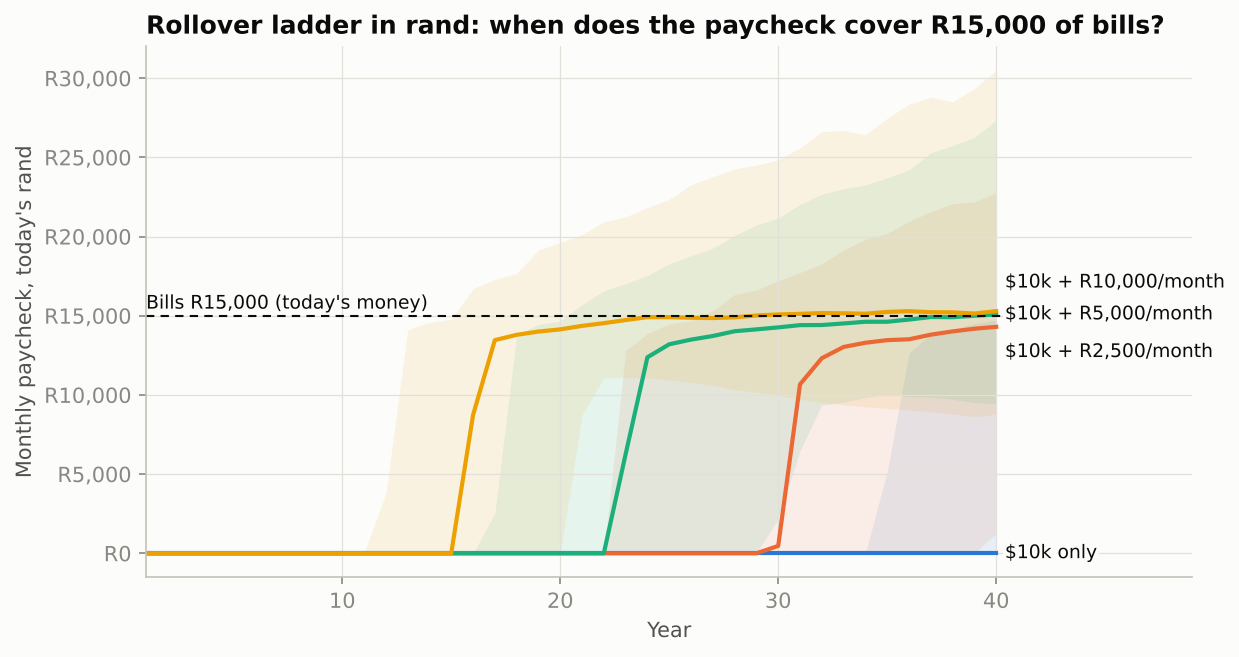
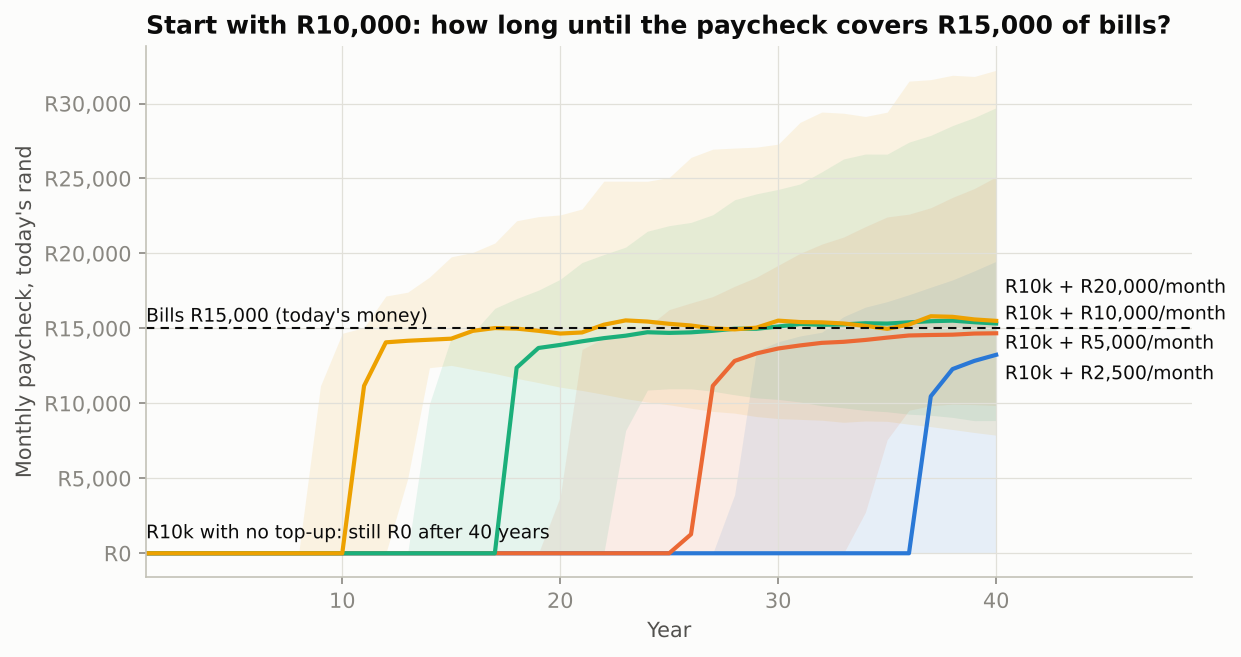
Make R10,000 the headline case of the rand income plan
- rand_plan.py: R10,000 start first, R20,000 top-up row, chart and the
  leverage comparison now start from R10,000
- README: R10,000 table with top-ups up to R30,000 and the chance of
  covering R15,000/month of bills within 10 years

Claude-Session: https://claude.ai/code/session_01FkSh75nLZHxFWKxDJLuH7a

diff --git a/Forex-Trading-Bot/factory/rand_plan.py b/Forex-Trading-Bot/factory/rand_plan.py
@@ -3,7 +3,8 @@
 The strategy holds dollar assets (S&P 500 and gold), so the simulation runs in
 USD and converts at the latest USD/ZAR rate in the data. Bills grow 3% a year in
 dollar terms, roughly SA inflation (~5-6%) less the rand's usual yearly slide
-against the dollar. All rand figures are reported in today's money.
+against the dollar. All rand figures are reported in today's money. The headline
+case starts with R10,000; a $10,000 start is kept for comparison.
 
   python -m factory.rand_plan
 """
@@ -22,8 +23,10 @@ INFLATION_USD = 0.03         # yearly growth of the bills measured in dollars
 RATE = 0.005                 # payout per month: ~6% a year = ~9% return minus 3% inflation
 YEARS = 40
 SA_FINANCING = 0.10          # borrowing in rand costs about prime (~10%); shown once for comparison
-STARTS_ZAR = {"$10,000": None, "R10,000": 10_000}
-TOPUPS_ZAR = [0, 2_500, 5_000, 10_000]
+STARTS_ZAR = {"R10,000": 10_000, "$10,000": None}
+TOPUPS_ZAR = [0, 2_500, 5_000, 10_000, 20_000]
+CHART_TOPUPS = [2_500, 5_000, 10_000, 20_000]
+START_ZAR = 10_000
 
 
 def usdzar() -> tuple[float, str]:
@@ -48,8 +51,8 @@ def plans():
                         | {"start_label": label, "topup_zar": top, "leverage": 1})
     lev = 1.5 * base - 0.5 * SA_FINANCING / 12
     rows.append(monte_carlo(lev, "ladder", rate=RATE, deposit=5_000 / fx, years=YEARS, n_paths=3000, bill=bill,
-                            bill_growth=INFLATION_USD, start=10_000.0)
-                | {"start_label": "$10,000", "topup_zar": 5_000, "leverage": 1.5})
+                            bill_growth=INFLATION_USD, start=START_ZAR / fx)
+                | {"start_label": "R10,000", "topup_zar": 5_000, "leverage": 1.5})
     t = pd.DataFrame(rows)
     t["usdzar"], t["usdzar_date"] = fx, fx_date
     # Real (today's-rand) income: deflate by the bill growth, convert at today's rate.
@@ -67,15 +70,15 @@ def chart(fx: float):
     deflate = (1 + INFLATION_USD) ** (years - 0.5)
     sims = block_bootstrap(base, YEARS * 12, 2000)
     fig, ax = plt.subplots(figsize=(9, 4.6))
-    for color, top in zip(SERIES + ["#eda100"], TOPUPS_ZAR):
-        pays = np.array([run_policy(p, "ladder", bill=bill, rate=RATE, deposit=top / fx,
+    for color, top in zip(SERIES + ["#eda100"], CHART_TOPUPS):
+        pays = np.array([run_policy(p, "ladder", bill=bill, rate=RATE, deposit=top / fx, start=START_ZAR / fx,
                                     bill_growth=INFLATION_USD)[1] for p in sims])
         real = pays.reshape(len(sims), YEARS, 12).mean(axis=2) * fx / deflate
         p10, p50, p90 = np.percentile(real, [10, 50, 90], axis=0)
         ax.plot(years, p50, color=color, linewidth=2)
         ax.fill_between(years, p10, p90, color=color, alpha=0.10, linewidth=0)
-        label = r"\$10k only" if top == 0 else rf"\$10k + R{top:,}/month"
-        ax.text(YEARS + 0.4, p50[-1] + {0: 0, 2_500: -1_600, 5_000: 0, 10_000: 1_800}[top], label,
+        label = f"R10k + R{top:,}/month"
+        ax.text(YEARS + 0.4, p50[-1] + {2_500: -1_300, 5_000: -700, 10_000: 600, 20_000: 2_200}[top], label,
                 color=INK, fontsize=9, va="center",
                 bbox=dict(facecolor=ax.get_facecolor(), edgecolor="none", pad=1))
     ax.axhline(BILLS_ZAR, color=INK, linewidth=1, linestyle=(0, (4, 3)))
@@ -84,7 +87,8 @@ def chart(fx: float):
     ax.set_xlabel("Year")
     ax.set_ylabel("Monthly paycheck, today's rand")
     ax.yaxis.set_major_formatter(plt.FuncFormatter(lambda v, _: f"R{v:,.0f}"))
-    ax.set_title("Rollover ladder in rand: when does the paycheck cover R15,000 of bills?")
+    ax.text(1, 1_000, "R10k with no top-up: still R0 after 40 years", color=INK, fontsize=9)
+    ax.set_title("Start with R10,000: how long until the paycheck covers R15,000 of bills?")
     return _save(fig, RESULTS / "rand_plan.png")
 
 

diff --git a/Forex-Trading-Bot/factory/README.md b/Forex-Trading-Bot/factory/README.md
@@ -114,29 +114,32 @@ The rollover ladder works like this:
 - **Inflation:** the bills grow **3% a year in dollar terms**, which is SA inflation (~5–6%) less the rand's usual yearly slide against the dollar.
 - **Payout rate:** with inflation included, the safe payout falls to **0.5% a month** (about 9% return minus 3% inflation). Covering the bills therefore needs about **R3 million** in today's money.
 
-All rand figures are in today's money.
+All rand figures are in today's money. **The starting amount is R10,000.**
 
-| Starting with | Monthly top-up | Bills covered after (median) |
+| Monthly top-up | Bills covered after (median) | Chance within 10 years |
 |---|---|---|
-| $10,000 (≈R167,000) | none | not within 40 years |
-| | R2,500 | **30 years** |
-| | R5,000 | **23 years** |
-| | R10,000 | **15 years** |
-| R10,000 | none | not within 40 years |
-| | R2,500 | 36 years |
-| | R5,000 | 26 years |
-| | R10,000 | 17 years |
+| none | not within 40 years | 0% |
+| R2,500 | 36 years | 0% |
+| R5,000 | 26 years | 0% |
+| R10,000 | **17 years** | 0% |
+| R15,000 | 13 years | 9% |
+| R20,000 | **10 years** | 44% |
+| R25,000 | 8.6 years | 85% |
+| R30,000 | 7.3 years | 99% |
+
+The rows from R15,000 up come from the same simulation, run separately.
 
 ![Rand plan](results/rand_plan.png)
 
-| Without the ladder | $10,000 start | R10,000 start |
-|---|---|---|
-| Take R15,000/month from day one | lasts **11 months** | can't pay one month |
-| Pay out 0.5% a month | **≈R830/month** | **≈R50/month** |
+| Without the ladder, starting with R10,000 | |
+|---|---|
+| Take R15,000/month from day one | can't pay even one month (R10,000 covers about two-thirds of one) |
+| Pay out 0.5% a month | **≈R50/month** |
 
 **What this shows:**
-- **The monthly top-up decides the timeline, not the starting amount.** Starting with $10k instead of R10k saves only 2–6 years.
-- **Borrowing doesn't help in rand.** Borrowing costs about prime (~10%), so 1.5× leverage with an R5,000 top-up is *slower* (23.4 years) than no leverage (22.6 years).
+- **The monthly top-up decides the timeline.** R10,000 on its own grows to about R110,000 in today's money over 40 years (median), far short of R3 million. Almost all of the R3 million has to come from savings plus the returns on those savings.
+- **The starting amount barely matters.** Starting with $10,000 (≈R167,000) instead of R10,000 saves only 1–6 years: 30 / 23 / 15 / 9.5 years at R2,500 / R5,000 / R10,000 / R20,000 a month.
+- **Borrowing doesn't help in rand.** Borrowing costs about prime (~10%), so 1.5× leverage with an R5,000 top-up is *slower* (26.8 years) than no leverage (25.9 years).
 - **The paycheck lags inflation between steps.** It rises in 25% steps while bills rise every year, so the paycheck runs slightly behind inflation between steps.
 
 ## 5. Honest caveats

diff --git a/Forex-Trading-Bot/README.md b/Forex-Trading-Bot/README.md
@@ -82,7 +82,7 @@ The [`factory/`](factory/) folder **creates 33,096 new strategies** from 14 buil
 
 - **About half the "winners" were luck.** Daily FX timing showed no edge, and the 12 best daily strategies failed their 2021–26 final test.
 - **What survived:** a monthly trend rule on S&P 500 + gold, at **12.2% a year on unseen 2021–26 data** and 9.2% a year since 1972.
-- **The income answer:** $10k pays about **$60–95 a month** sustainably. The rollover ladder reaches a $1,000 paycheck in about 10–12 years with a $500/month top-up.
+- **The income answer, in rand:** covering **R15,000 a month** of bills safely needs about **R3 million**. Starting from R10,000, the rollover ladder gets there in about **10 years with R20,000/month** of top-ups, or 17 years with R10,000/month.
 
 [Read the full study →](factory/)
 
